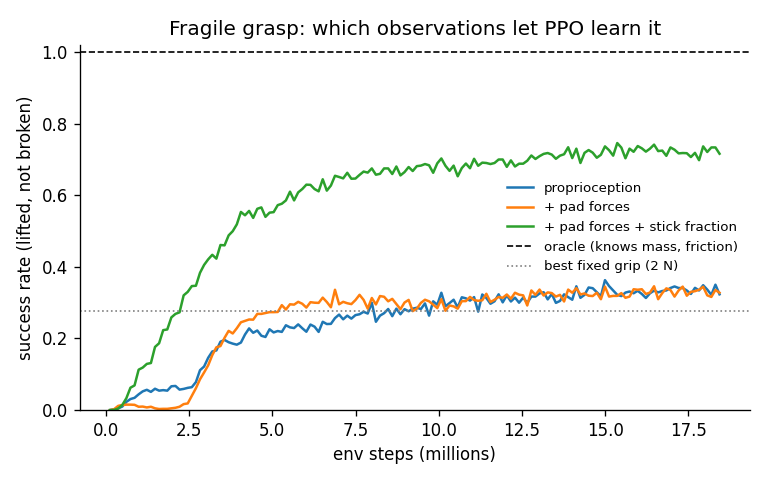
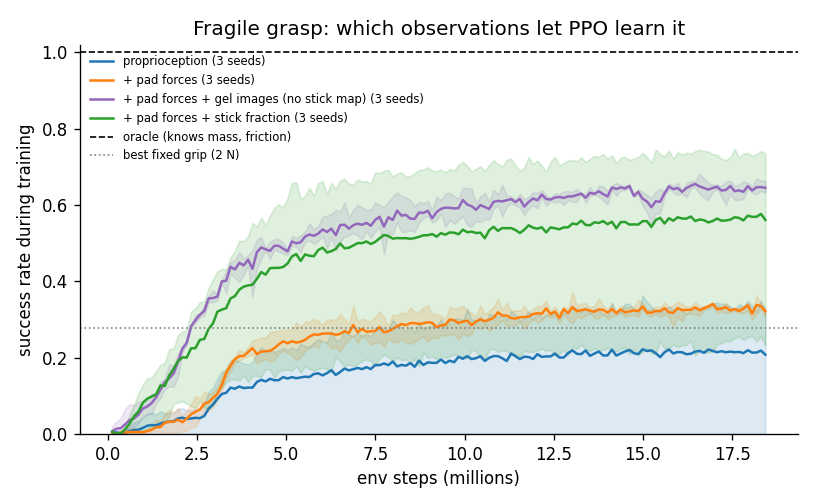
Grasp RL: sensor-realistic gel images, 3 seeds per observation set
Adds the "markers" observation set to the fragile-grasp task: pad forces
plus each pad's 12 x 12 gel deflection and tangential displacement images,
what a vision-based sensor with markers provides, and no stick map.

Held-out success, 3 seeds each (mean, range): proprioception 23% (0-37),
pad forces 36% (36-36), gel images 67% (65-68) with no drops on any seed,
stick fraction 59% (25-75). The earlier single-seed 75% for the stick
fraction did not hold up; the image policy is the robust result.

eval_grasp.py evaluates every seed under several run directories, plots
mean learning curves with min-max bands, and renders the GIF from the best
image policy.

diff --git a/examples/eval_grasp.py b/examples/eval_grasp.py
@@ -3,6 +3,9 @@ held-out episodes, learning curves against fixed-grip and oracle baselines,
 and a GIF of a policy at work.
 
     PYTHONPATH=python:$PYTHONPATH python3 examples/eval_grasp.py --runs runs --media docs/media
+
+Every sub-directory of --runs with a policy.pt is evaluated; its name is the
+observation set, optionally with a seed suffix (tactile, tactile_s1, ...).
 """
 
 import argparse
@@ -17,8 +20,21 @@ from grasp_env import BALL_FRICTION, EPISODE, FINGER_FRICTION, MASSES, GraspEnv,
 from train_grasp import ActorCritic, RunningNorm
 from libphys import viz
 
-KINDS = ("proprio", "force", "tactile")
-LABELS = {"proprio": "proprioception", "force": "+ pad forces", "tactile": "+ pad forces + stick fraction"}
+KINDS = ("proprio", "force", "markers", "tactile")
+LABELS = {"proprio": "proprioception", "force": "+ pad forces", "markers": "+ pad forces + gel images (no stick map)",
+          "tactile": "+ pad forces + stick fraction"}
+COLORS = {"proprio": "tab:blue", "force": "tab:orange", "markers": "tab:purple", "tactile": "tab:green"}
+
+
+def find_runs(roots):
+    """{kind: [run dirs]} for every run directory under the roots."""
+    runs = {}
+    for root in roots:
+        for name in sorted(os.listdir(root)):
+            path = os.path.join(root, name)
+            if os.path.exists(os.path.join(path, "policy.pt")):
+                runs.setdefault(name.split("_s")[0], []).append(path)
+    return runs
 
 
 def load(run_dir, env):
@@ -56,7 +72,7 @@ def evaluate(policy_fn, kind, n, seed):
 
 def main():
     ap = argparse.ArgumentParser()
-    ap.add_argument("--runs", default="runs")
+    ap.add_argument("--runs", nargs="+", default=["runs"])
     ap.add_argument("--media", default=".")
     ap.add_argument("--envs", type=int, default=4096)
     args = ap.parse_args()
@@ -64,11 +80,11 @@ def main():
     matplotlib.use("Agg")
     import matplotlib.pyplot as plt
 
+    runs = find_runs(args.runs)
     results = {}
     for kind in KINDS:
-        run = os.path.join(args.runs, kind)
-        if os.path.exists(os.path.join(run, "policy.pt")):
-            results[kind] = evaluate(lambda env, run=run: load(run, env), kind, args.envs, seed=123)
+        for run in runs.get(kind, []):
+            results.setdefault(kind, []).append(evaluate(lambda env, run=run: load(run, env), kind, args.envs, seed=123))
     baselines = {}
     for f in (1.0, 2.0, 4.0):
         baselines[f"fixed {f:g} N"] = evaluate(
@@ -77,45 +93,51 @@ def main():
     baselines["oracle (knows m, mu)"] = evaluate(
         lambda env: (lambda obs: action_towards(env.grip, 1.25 * env.min_grip())), "proprio", args.envs, seed=123)
 
-    print(f"{'policy':34s} success  broken  dropped")
-    for name, r in list((LABELS[k], v) for k, v in results.items()) + list(baselines.items()):
-        print(f"{name:34s} {r['success']:7.3f} {r['broken']:7.3f} {r['dropped']:8.3f}")
-    print("\nsuccess by ball (mass kg, contact mu):")
-    mus = [0.5 * (FINGER_FRICTION + fb) for fb in BALL_FRICTION]
-    header = "".join(f"  {m:.2f}/{mu:.1f}" for m in MASSES for mu in mus)
-    print(f"{'':34s}{header}")
-    for kind, r in results.items():
-        print(f"{LABELS[kind]:34s}" + "".join(f"  {r['by_variant'].get(v, float('nan')):8.2f}"
-                                              for v in range(len(MASSES) * len(mus))))
-    with open(os.path.join(args.runs, "eval.json"), "w") as f:
+    def summary(rs, key):
+        v = [r[key] for r in rs]
+        return sum(v) / len(v), min(v), max(v)
+
+    print(f"{'policy':44s} seeds  success (min-max)    broken  dropped")
+    for kind, rs in results.items():
+        m, lo, hi = summary(rs, "success")
+        print(f"{LABELS[kind]:44s} {len(rs):5d}  {m:.3f} ({lo:.2f}-{hi:.2f})   {summary(rs, 'broken')[0]:.3f}   "
+              f"{summary(rs, 'dropped')[0]:.3f}")
+    for name, r in baselines.items():
+        print(f"{name:44s}     -  {r['success']:.3f}                {r['broken']:.3f}   {r['dropped']:.3f}")
+    with open(os.path.join(args.runs[0], "eval.json"), "w") as f:
         json.dump({"policies": results, "baselines": baselines}, f, indent=1)
 
-    # Learning curves.
-    fig, ax = plt.subplots(figsize=(6.4, 4.0))
+    # Learning curves: mean over seeds, shaded min-max.
+    fig, ax = plt.subplots(figsize=(6.8, 4.2))
     for kind in KINDS:
-        path = os.path.join(args.runs, kind, "log.json")
-        if not os.path.exists(path):
+        logs = [json.load(open(os.path.join(r, "log.json"))) for r in runs.get(kind, [])]
+        if not logs:
             continue
-        log = json.load(open(path))
-        steps = [e["steps"] / 1e6 for e in log]
-        ax.plot(steps, [e["success"] for e in log], label=LABELS[kind])
+        n = min(len(l) for l in logs)
+        steps = [logs[0][i]["steps"] / 1e6 for i in range(n)]
+        curves = torch.tensor([[l[i]["success"] for i in range(n)] for l in logs])
+        ax.plot(steps, curves.mean(0), color=COLORS[kind], label=f"{LABELS[kind]} ({len(logs)} seeds)")
+        if len(logs) > 1:
+            ax.fill_between(steps, curves.min(0).values, curves.max(0).values, color=COLORS[kind], alpha=0.15)
     ax.axhline(baselines["oracle (knows m, mu)"]["success"], color="k", ls="--", lw=1, label="oracle (knows mass, friction)")
     best_fixed = max((v["success"], k) for k, v in baselines.items() if k.startswith("fixed"))
     ax.axhline(best_fixed[0], color="gray", ls=":", lw=1, label=f"best fixed grip ({best_fixed[1][6:]})")
-    ax.set(xlabel="env steps (millions)", ylabel="success rate (lifted, not broken)",
+    ax.set(xlabel="env steps (millions)", ylabel="success rate during training",
            title="Fragile grasp: which observations let PPO learn it", ylim=(0, 1.02))
-    ax.legend(frameon=False, fontsize=8, loc="center right")
+    ax.legend(frameon=False, fontsize=7, loc="upper left")
     ax.spines[["top", "right"]].set_visible(False)
     fig.tight_layout()
     fig.savefig(os.path.join(args.media, "grasp_learning.png"), dpi=120)
 
-    # GIF of the tactile policy on four different hidden balls.
-    if "tactile" in results:
-        make_gif(os.path.join(args.runs, "tactile"), os.path.join(args.media, "grasp_tactile.gif"))
+    # GIF of the best policy that sees the gel images, on four hidden balls.
+    kind = "markers" if "markers" in results else "tactile"
+    if kind in results:
+        best = max(range(len(results[kind])), key=lambda i: results[kind][i]["success"])
+        make_gif(runs[kind][best], kind, os.path.join(args.media, "grasp_tactile.gif"))
 
 
-def make_gif(run, path):
-    env = GraspEnv(num_envs=4, obs="tactile", seed=7)
+def make_gif(run, kind, path):
+    env = GraspEnv(num_envs=4, obs=kind, seed=7)
     policy = load(run, env)
     picks = [(0.05, 0.8), (0.4, 0.8), (0.1, 0.3), (0.4, 0.3)]  # (mass, mu)
     mus = [0.5 * (FINGER_FRICTION + fb) for fb in BALL_FRICTION]
@@ -148,8 +170,8 @@ def make_gif(run, path):
             grips[e].append((env.grip[e].item(), env.min_grip()[e].item()))
         frame = Image.new("RGB", (4 * tile_w, tile_h + 22), (250, 249, 246))
         d = ImageDraw.Draw(frame)
-        d.text((6, 4), f"Policy with tactile stick fraction, t = {k / 30:.2f} s: grip force vs the least that holds "
-                       f"(dashed) and the break limit (red)", fill=(20, 20, 20))
+        d.text((6, 4), f"Policy seeing {LABELS[kind][2:]}, t = {k / 30:.2f} s: grip force vs the least that "
+                       f"holds (dashed) and the break limit (red)", fill=(20, 20, 20))
         for e in range(4):
             x0 = e * tile_w
             img = viz.render(env.world, e, cam, colors=colors, hidden=(env.carriage,), plane_extent=0.12)
@@ -165,7 +187,7 @@ def make_gif(run, path):
             # grip trace
             gx0, gy0, gw, gh = x0 + 6, 22 + 190 + 100, tile_w - 12, 26
             fmax = 1.0 + max(1.6 * g[1] for g in grips[e])
-            pts = [(gx0 + gw * i / EPISODE, gy0 + gh - gh * g[0] / fmax) for i, g in enumerate(grips[e])]
+            pts = [(gx0 + gw * i / EPISODE, gy0 + gh - gh * min(g[0] / fmax, 1.0)) for i, g in enumerate(grips[e])]
             ymin = gy0 + gh - gh * grips[e][0][1] / fmax
             ybrk = gy0 + gh - gh * 1.6 * grips[e][0][1] / fmax
             for xx in range(gx0, gx0 + gw, 6):

diff --git a/examples/grasp_env.py b/examples/grasp_env.py
@@ -13,6 +13,9 @@ e^{+-0.3}, starting from 0.4 N - as a grip reflex does. Observation sets:
   "proprio"  time, finger positions and velocities, the last grip command
   "force"    + each pad's normal and shear force
   "tactile"  + each pad's stick fraction (sticking / touching cells)
+  "markers"  "force" + each pad's gel deflection and tangential displacement
+             images (12 x 12), what a vision-based sensor with markers sees;
+             no stick map
 
 Pad forces tell a policy the ball's weight but not its friction; the stick
 fraction - which shrinks as the grip nears slip, Mindlin's
@@ -41,7 +44,9 @@ PHYSICS_STEPS = 2            # per control step
 EPISODE = 60                 # control steps (2 s)
 GRASP_TIME = 0.5             # s before lifting
 LIFT_SPEED, LIFT_HEIGHT = 0.1, 0.1
-OBS_SIZES = {"proprio": 6, "force": 10, "tactile": 12}
+PAD_CELLS = 12
+IMAGE_CHANNELS = 3           # deflection, displacement x, displacement y
+OBS_SIZES = {"proprio": 6, "force": 10, "tactile": 12, "markers": 10 + 2 * IMAGE_CHANNELS * PAD_CELLS ** 2}
 
 
 GRIP_RATE = 0.3            # log grip change per control step at |action| = 1
@@ -148,7 +153,7 @@ class GraspEnv:
         fq = torch.stack([w.joint_q[:, 1], w.joint_q[:, 2], w.joint_qd[:, 1], w.joint_qd[:, 2]], dim=1)
         parts = [time[:, None], fq * torch.tensor([50.0, 50.0, 2.0, 2.0], device=self.device),
                  (torch.log(self.grip / START_GRIP) / 3.0)[:, None]]
-        if self.obs_kind in ("force", "tactile"):
+        if self.obs_kind in ("force", "tactile", "markers"):
             f = w.tactile_force                      # [n, 2, 3]: shear x, shear y, normal
             shear = torch.linalg.norm(f[:, :, :2], dim=2)
             parts += [f[:, :, 2] / 5.0, shear / 5.0]
@@ -159,6 +164,9 @@ class GraspEnv:
                 stick = (t[:, 6] > 0.5).sum(dim=(1, 2)).float()
                 fracs.append(torch.where(contact > 0, stick / contact.clamp(min=1), torch.ones_like(contact)))
             parts.append(torch.stack(fracs, dim=1))
+        if self.obs_kind == "markers":
+            for t in w.tactile:  # [n, 7, 12, 12]: channels 3-5, in mm
+                parts.append((t[:, 3:6] * 1e3).reshape(self.n, -1))
         obs = torch.cat(parts, dim=1)
         if obs.shape[1] < OBS_SIZES[self.obs_kind]:  # pad to the documented size
             obs = torch.cat([obs, torch.zeros(self.n, OBS_SIZES[self.obs_kind] - obs.shape[1], device=self.device)], 1)

diff --git a/examples/train_grasp.py b/examples/train_grasp.py
@@ -43,10 +43,10 @@ class RunningNorm:
 class ActorCritic(nn.Module):
     def __init__(self, obs_size, hidden=128):
         super().__init__()
-        def mlp(out):
+        def head(out):
             return nn.Sequential(nn.Linear(obs_size, hidden), nn.Tanh(), nn.Linear(hidden, hidden), nn.Tanh(),
                                  nn.Linear(hidden, out))
-        self.actor, self.critic = mlp(1), mlp(1)
+        self.actor, self.critic = head(1), head(1)
         self.log_std = nn.Parameter(torch.full((1,), -1.2))
 
     def dist(self, obs):
@@ -122,7 +122,7 @@ def save(args, net, norm, log):
 
 if __name__ == "__main__":
     ap = argparse.ArgumentParser()
-    ap.add_argument("--obs", default="tactile", choices=["proprio", "force", "tactile"])
+    ap.add_argument("--obs", default="tactile", choices=["proprio", "force", "tactile", "markers"])
     ap.add_argument("--envs", type=int, default=2048)
     ap.add_argument("--updates", type=int, default=120)
     ap.add_argument("--lr", type=float, default=3e-4)

diff --git a/README.md b/README.md
@@ -181,6 +181,11 @@ The analysis is in [docs/TACTILE.md](docs/TACTILE.md).
 
 ![Learned tactile grasping](docs/media/grasp_tactile.gif)
 
+*A policy that sees the gel images (no stick map), on four hidden balls.
+Below each: the simulated sensor image, pressure with shear, and the grip
+force against the least force that holds the ball (dashed) and the break
+limit (red). The lightest, grippiest ball breaks.*
+
 `examples/grasp_env.py` is a batched RL task where touch matters:
 - **Setup.** A parallel-jaw gripper with a coupled gel pad on each finger
   must lift a ball whose mass (0.05-0.4 kg) and friction (0.3-0.8) are
@@ -190,30 +195,39 @@ The analysis is in [docs/TACTILE.md](docs/TACTILE.md).
   too little and it slips out; too much and it breaks.
 - **Control.** The lift is scripted; the policy adjusts the grip force.
 
-PPO (`examples/train_grasp.py`) is trained with three observation sets,
-18M env steps each, about 30 minutes on the Orin with all three training at
-once. The results below are
-from 4,096 held-out episodes (`examples/eval_grasp.py`):
+PPO (`examples/train_grasp.py`) is trained with four observation sets,
+3 seeds each, 18M env steps per run (about 11 minutes per run on the Orin
+when trained alone). The
+results below are from 4,096 held-out episodes per policy
+(`examples/eval_grasp.py`):
 
-| Policy observes | Success | Broken | Dropped |
+| Policy observes | Success: mean over seeds (range) | Broken | Dropped |
 |---|---|---|---|
 | (fixed grip, best: 2 N) | 28% | 32% | 41% |
-| finger positions and velocities, grip, time | 37% | 36% | 27% |
-| + each pad's normal and shear force | 36% | 17% | 47% |
-| **+ each pad's stick fraction** | **75%** | 25% | **0%** |
+| finger positions and velocities, grip, time | 23% (0-37%) | 24% | 54% |
+| + each pad's normal and shear force | 36% (36-36%) | 28% | 36% |
+| **+ each pad's gel deflection and displacement images** (12 x 12, no stick map) | **67% (65-68%)** | 33% | **0%** |
+| + each pad's stick fraction (a scalar instead of the images) | 59% (25-75%) | 19% | 22% |
 | (oracle that knows mass and friction) | 100% | 0% | 0% |
 
 ![Learning curves](docs/media/grasp_learning.png)
 
-**Why the stick fraction matters.**
-- Pad forces give the policy the ball's weight, not its friction, and that
-  is not enough.
-- The stick fraction is the share of the contact that still sticks. Under
-  Mindlin's theory it shrinks as the grip nears slip, so it measures how
-  close to slipping the grasp is without knowing the friction.
-- The policy that sees it learns a grip reflex: it tightens just enough as
-  the load comes on. It never drops a ball and only breaks the lightest,
-  grippiest ones, for which even its 0.4 N starting grip is too much.
+**Why touch helps.**
+- **Forces are not enough.** Pad forces give the ball's weight but not its
+  friction, and stop at 36%.
+- **The images are enough.** The images are what a vision-based sensor with
+  markers provides: the gel's deflection and its sideways displacement.
+  - As the grip nears slip, the outer ring of the contact starts slipping
+    while the centre still sticks (Mindlin partial slip). That changes the
+    shape of the displacement field, which is presumably what the policy
+    reads (which features it uses has not been analysed).
+  - From those images alone, the policy learns a grip reflex: it tightens
+    just enough as the load comes on. It never drops a ball, on every seed.
+- **The stick fraction is a less reliable shortcut.** Handed the share of
+  the contact that still sticks as a single number, PPO reaches 75% on two
+  seeds but stalls at 25% on the third.
+- **Remaining failures** are breaks of the lightest, grippiest balls, for
+  which even the 0.4 N starting grip is over the limit.
 
 A contact model with a single friction state per contact, such as rigid
 Coulomb friction, cannot produce this signal; it needs a model of partial
